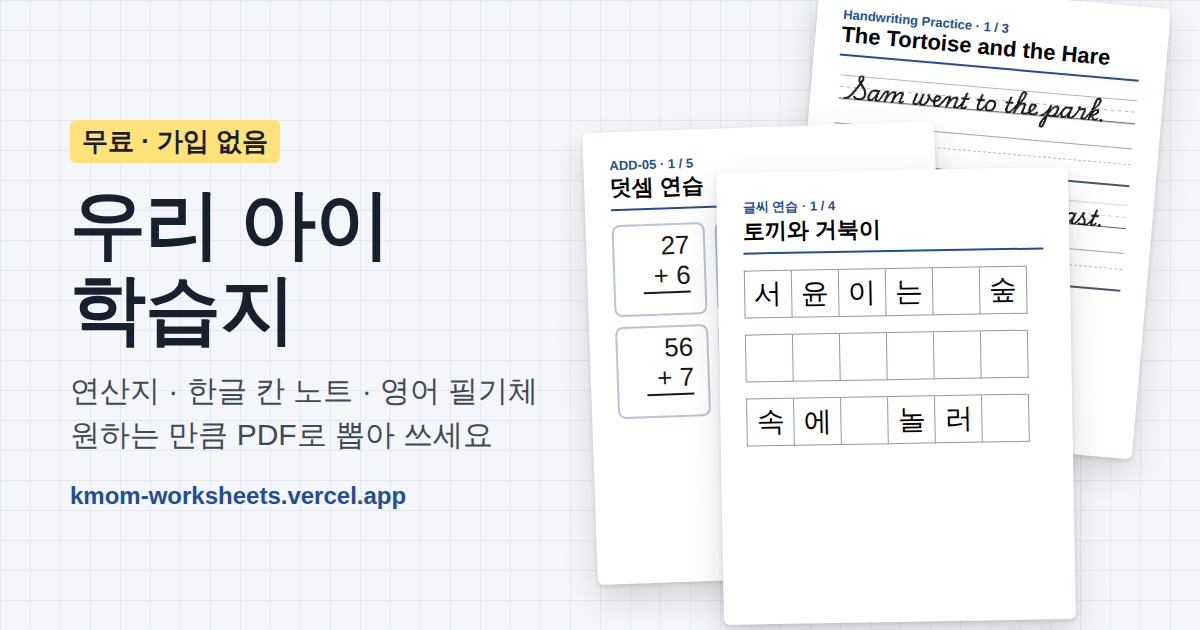
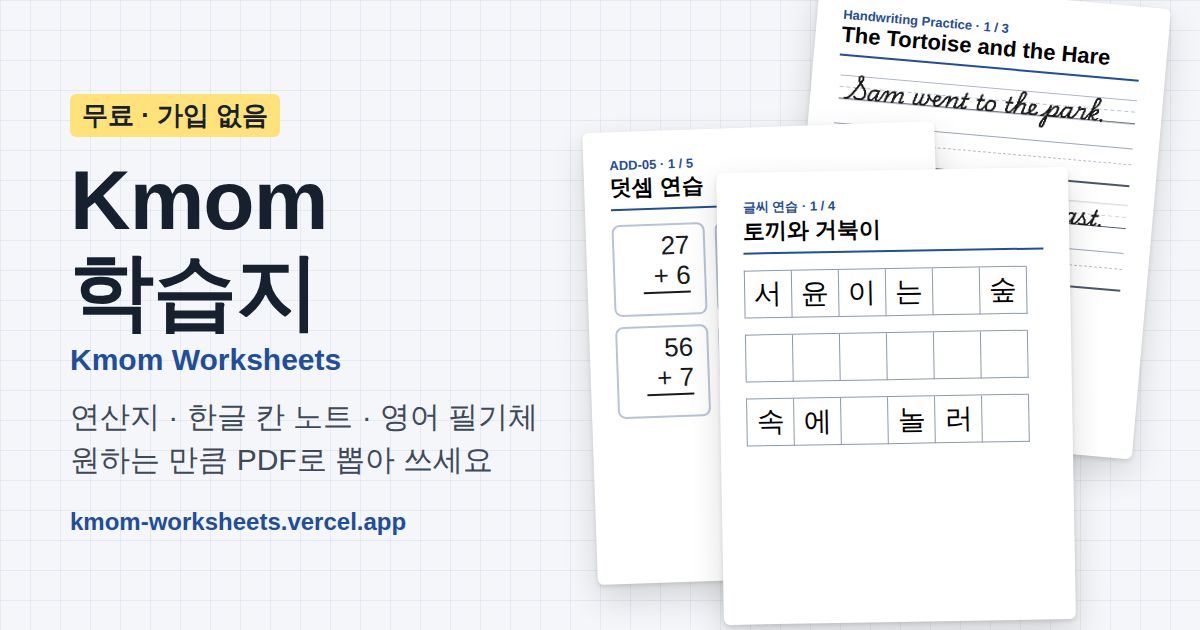
Add files via upload

Changed region(s): [[0.0308, 0.1508, 0.4625, 0.8444]]

diff --git a/index.html b/index.html
@@ -3,11 +3,12 @@
 <head>
 <meta charset="utf-8">
 <meta name="viewport" content="width=device-width, initial-scale=1, viewport-fit=cover">
-<title>우리 아이 학습지 — 연산지 · 한글 · English</title>
+<title>Kmom 학습지 · Kmom Worksheets — 연산지 · 한글 칸 노트 · 영어 필기체</title>
 <meta name="description" content="무료 초등 학습지: 수학 연산지, 아이 이름이 들어간 한글 칸 노트, 영어 필기체 연습. 가입 없이 Letter·A4 PDF로 저장해 인쇄하세요.">
 <meta property="og:type" content="website">
 <meta property="og:url" content="https://kmom-worksheets.vercel.app/">
-<meta property="og:title" content="우리 아이 학습지 — 연산지 · 한글 칸 노트 · 영어 필기체">
+<meta property="og:title" content="Kmom 학습지 · Kmom Worksheets — 연산지 · 한글 칸 노트 · 영어 필기체">
+<meta property="og:site_name" content="Kmom Worksheets">
 <meta property="og:description" content="무료, 가입 없음. 원하는 레벨과 분량으로 PDF를 만들어 인쇄하세요.">
 <meta property="og:image" content="https://kmom-worksheets.vercel.app/og.png">
 <meta property="og:image:width" content="1200">
@@ -177,7 +178,9 @@ textarea.text.en{font-family:Andika,system-ui,sans-serif}
 .site{position:sticky;top:env(safe-area-inset-top,0px);z-index:10;background:var(--surface);border-bottom:1px solid var(--line)}
 body::before{content:"";position:fixed;inset:0 0 auto;height:env(safe-area-inset-top,0px);z-index:10;background:var(--surface)}
 .site-in{max-width:1240px;margin:0 auto;padding:10px 20px;display:flex;align-items:center;gap:16px;flex-wrap:wrap}
-.brand{font-weight:900;font-size:18px;margin-right:auto}
+.brand{font-weight:900;font-size:18px;margin-right:auto;display:flex;align-items:baseline;gap:8px}
+.brand small{font-size:13px;font-weight:500;color:var(--muted)}
+@media (max-width:520px){.brand small{display:none}}
 .tabs{display:flex;gap:4px;background:var(--bg);border:1px solid var(--line);border-radius:12px;padding:4px}
 .tabs a{display:flex;align-items:center;min-height:40px;padding:0 14px;white-space:nowrap;border-radius:9px;text-decoration:none;color:var(--muted);font-weight:700}
 .tabs a[aria-current="page"]{background:var(--surface);color:var(--accent);box-shadow:0 0 0 1px var(--line)}
@@ -188,7 +191,7 @@ body::before{content:"";position:fixed;inset:0 0 auto;height:env(safe-area-inset
 <body>
 <nav class="site" aria-label="학습지 종류">
   <div class="site-in">
-    <span class="brand">우리 아이 학습지</span>
+    <span class="brand">Kmom 학습지<small>Kmom Worksheets</small></span>
     <div class="tabs">
       <a href="#math" data-tab="math">수학 연산지</a>
       <a href="#hangul" data-tab="hangul">한글 글씨 연습</a>

diff --git a/README.md b/README.md
@@ -1,4 +1,4 @@
-# 우리 아이 학습지
+# Kmom 학습지 · Kmom Worksheets
 
 무료 학습지 사이트예요. 탭 두 개로 되어 있어요.
 
